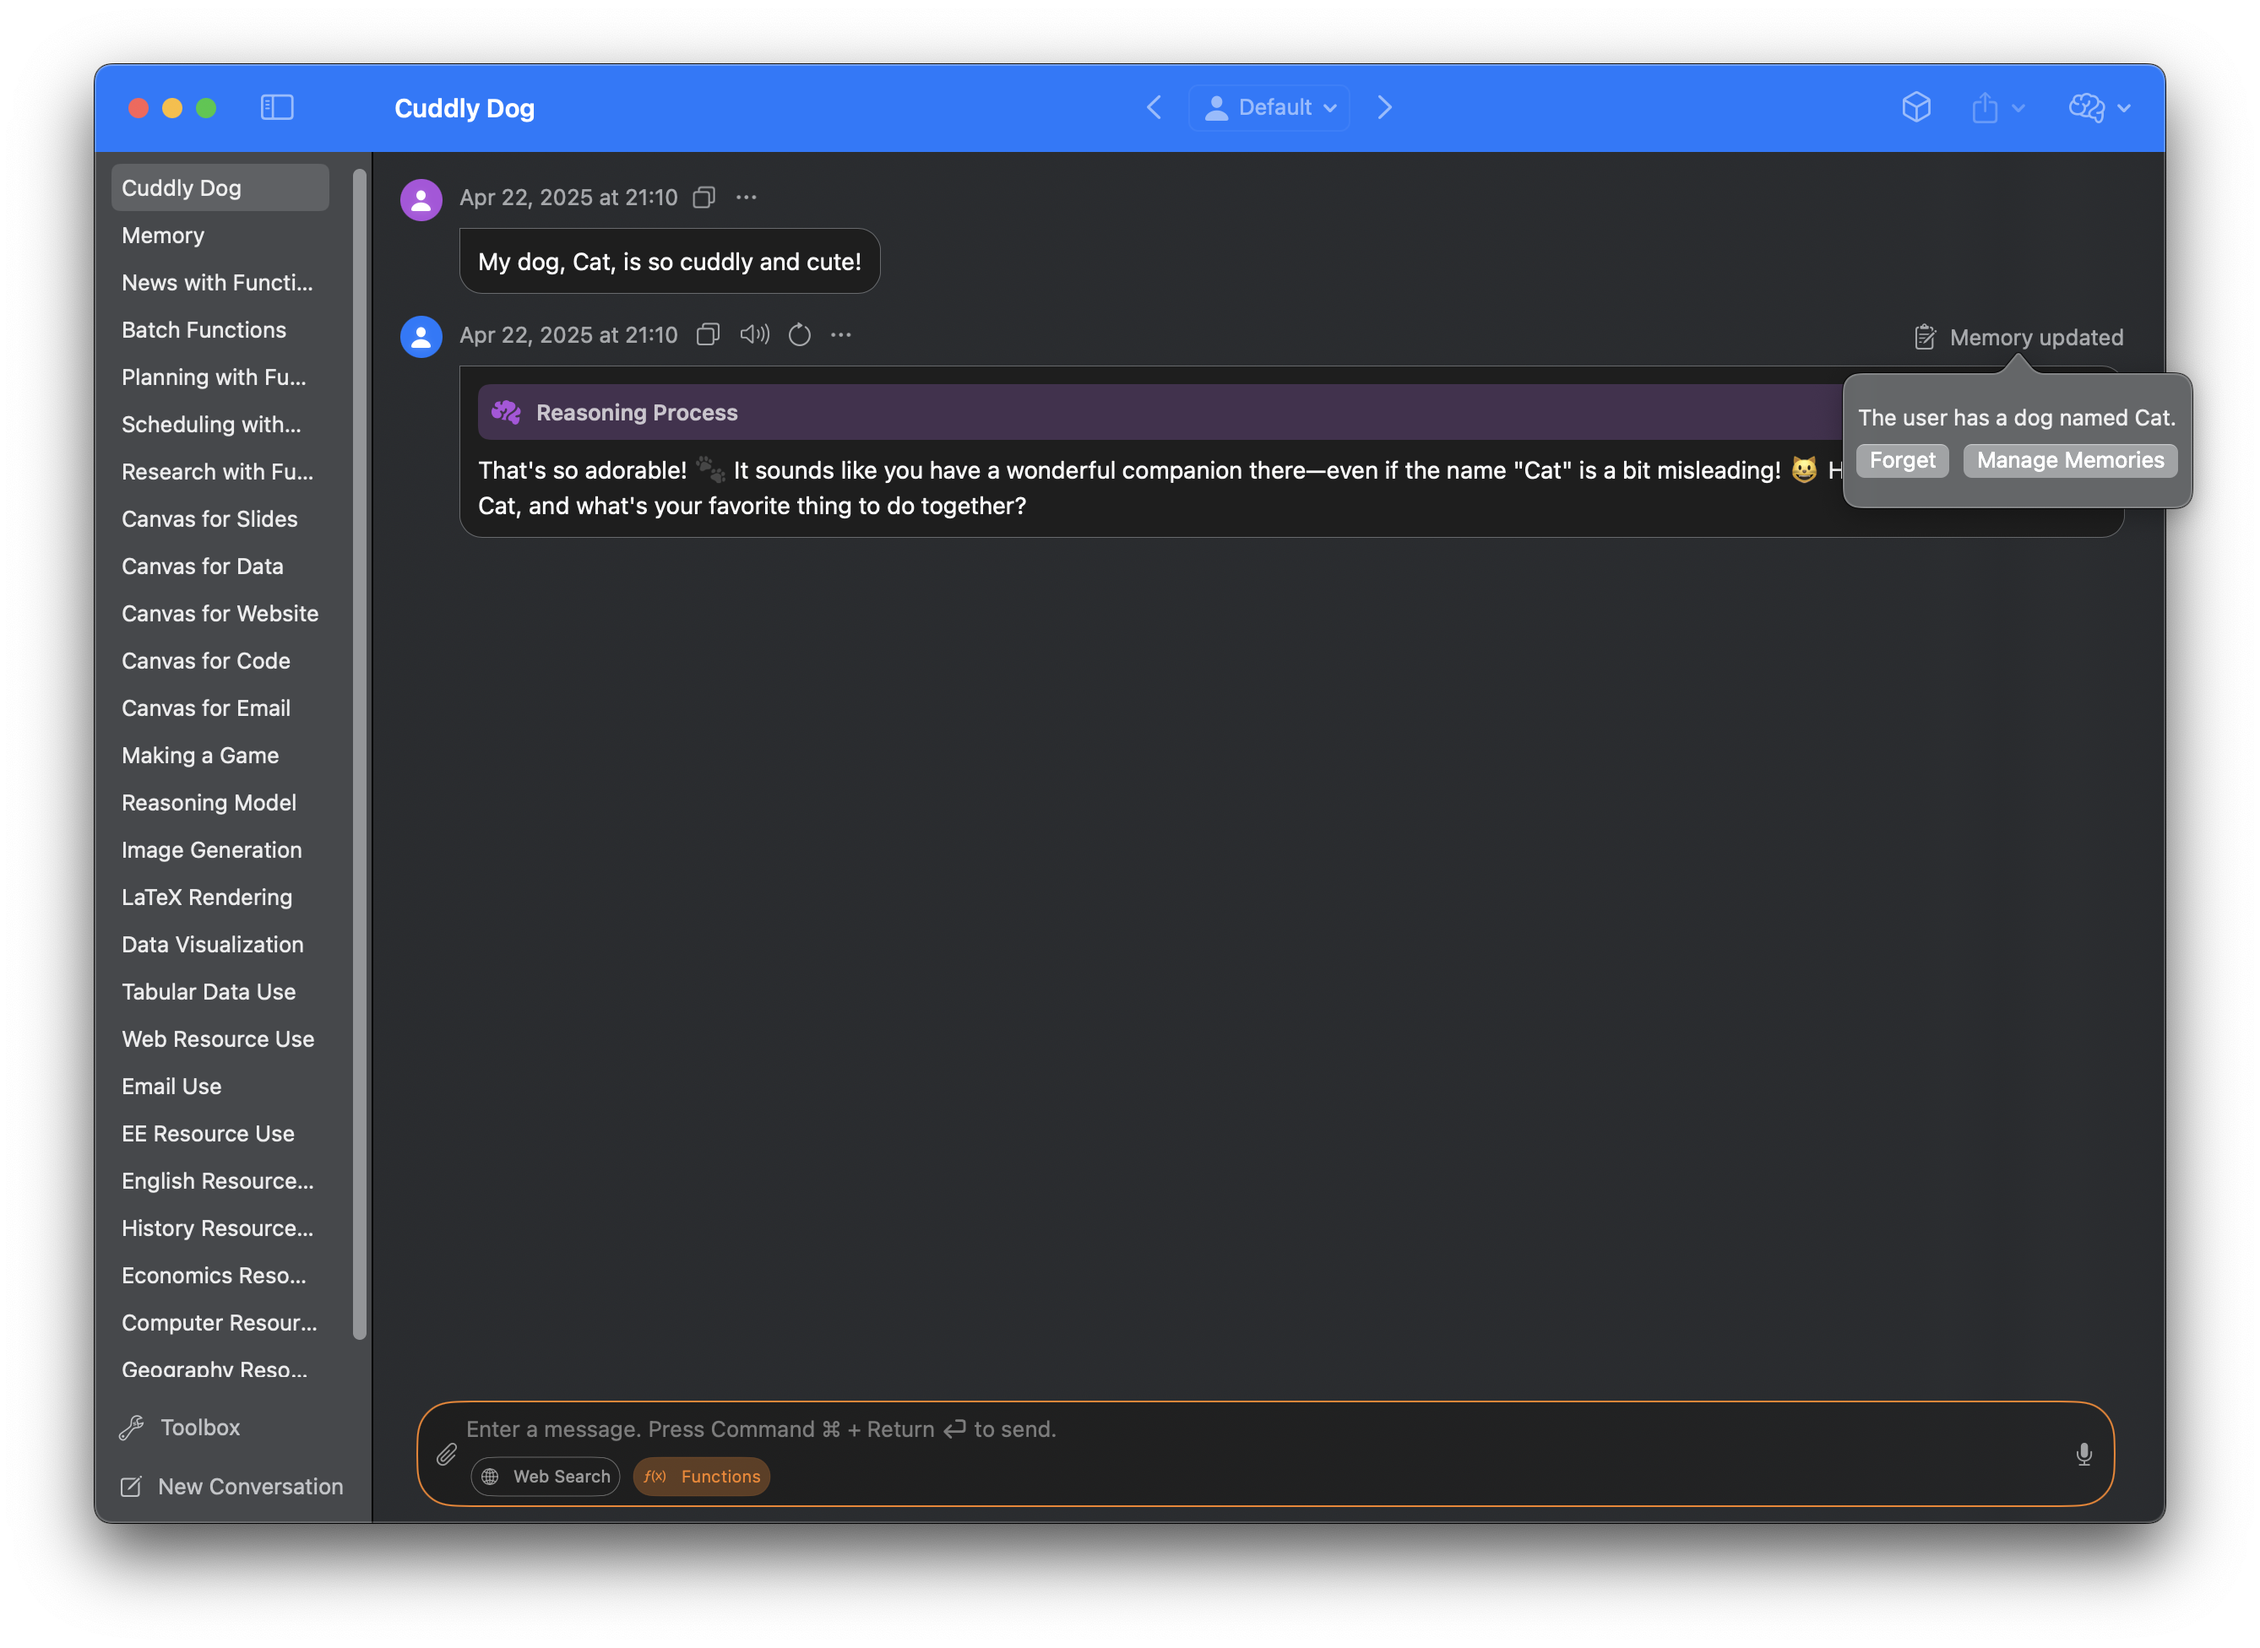
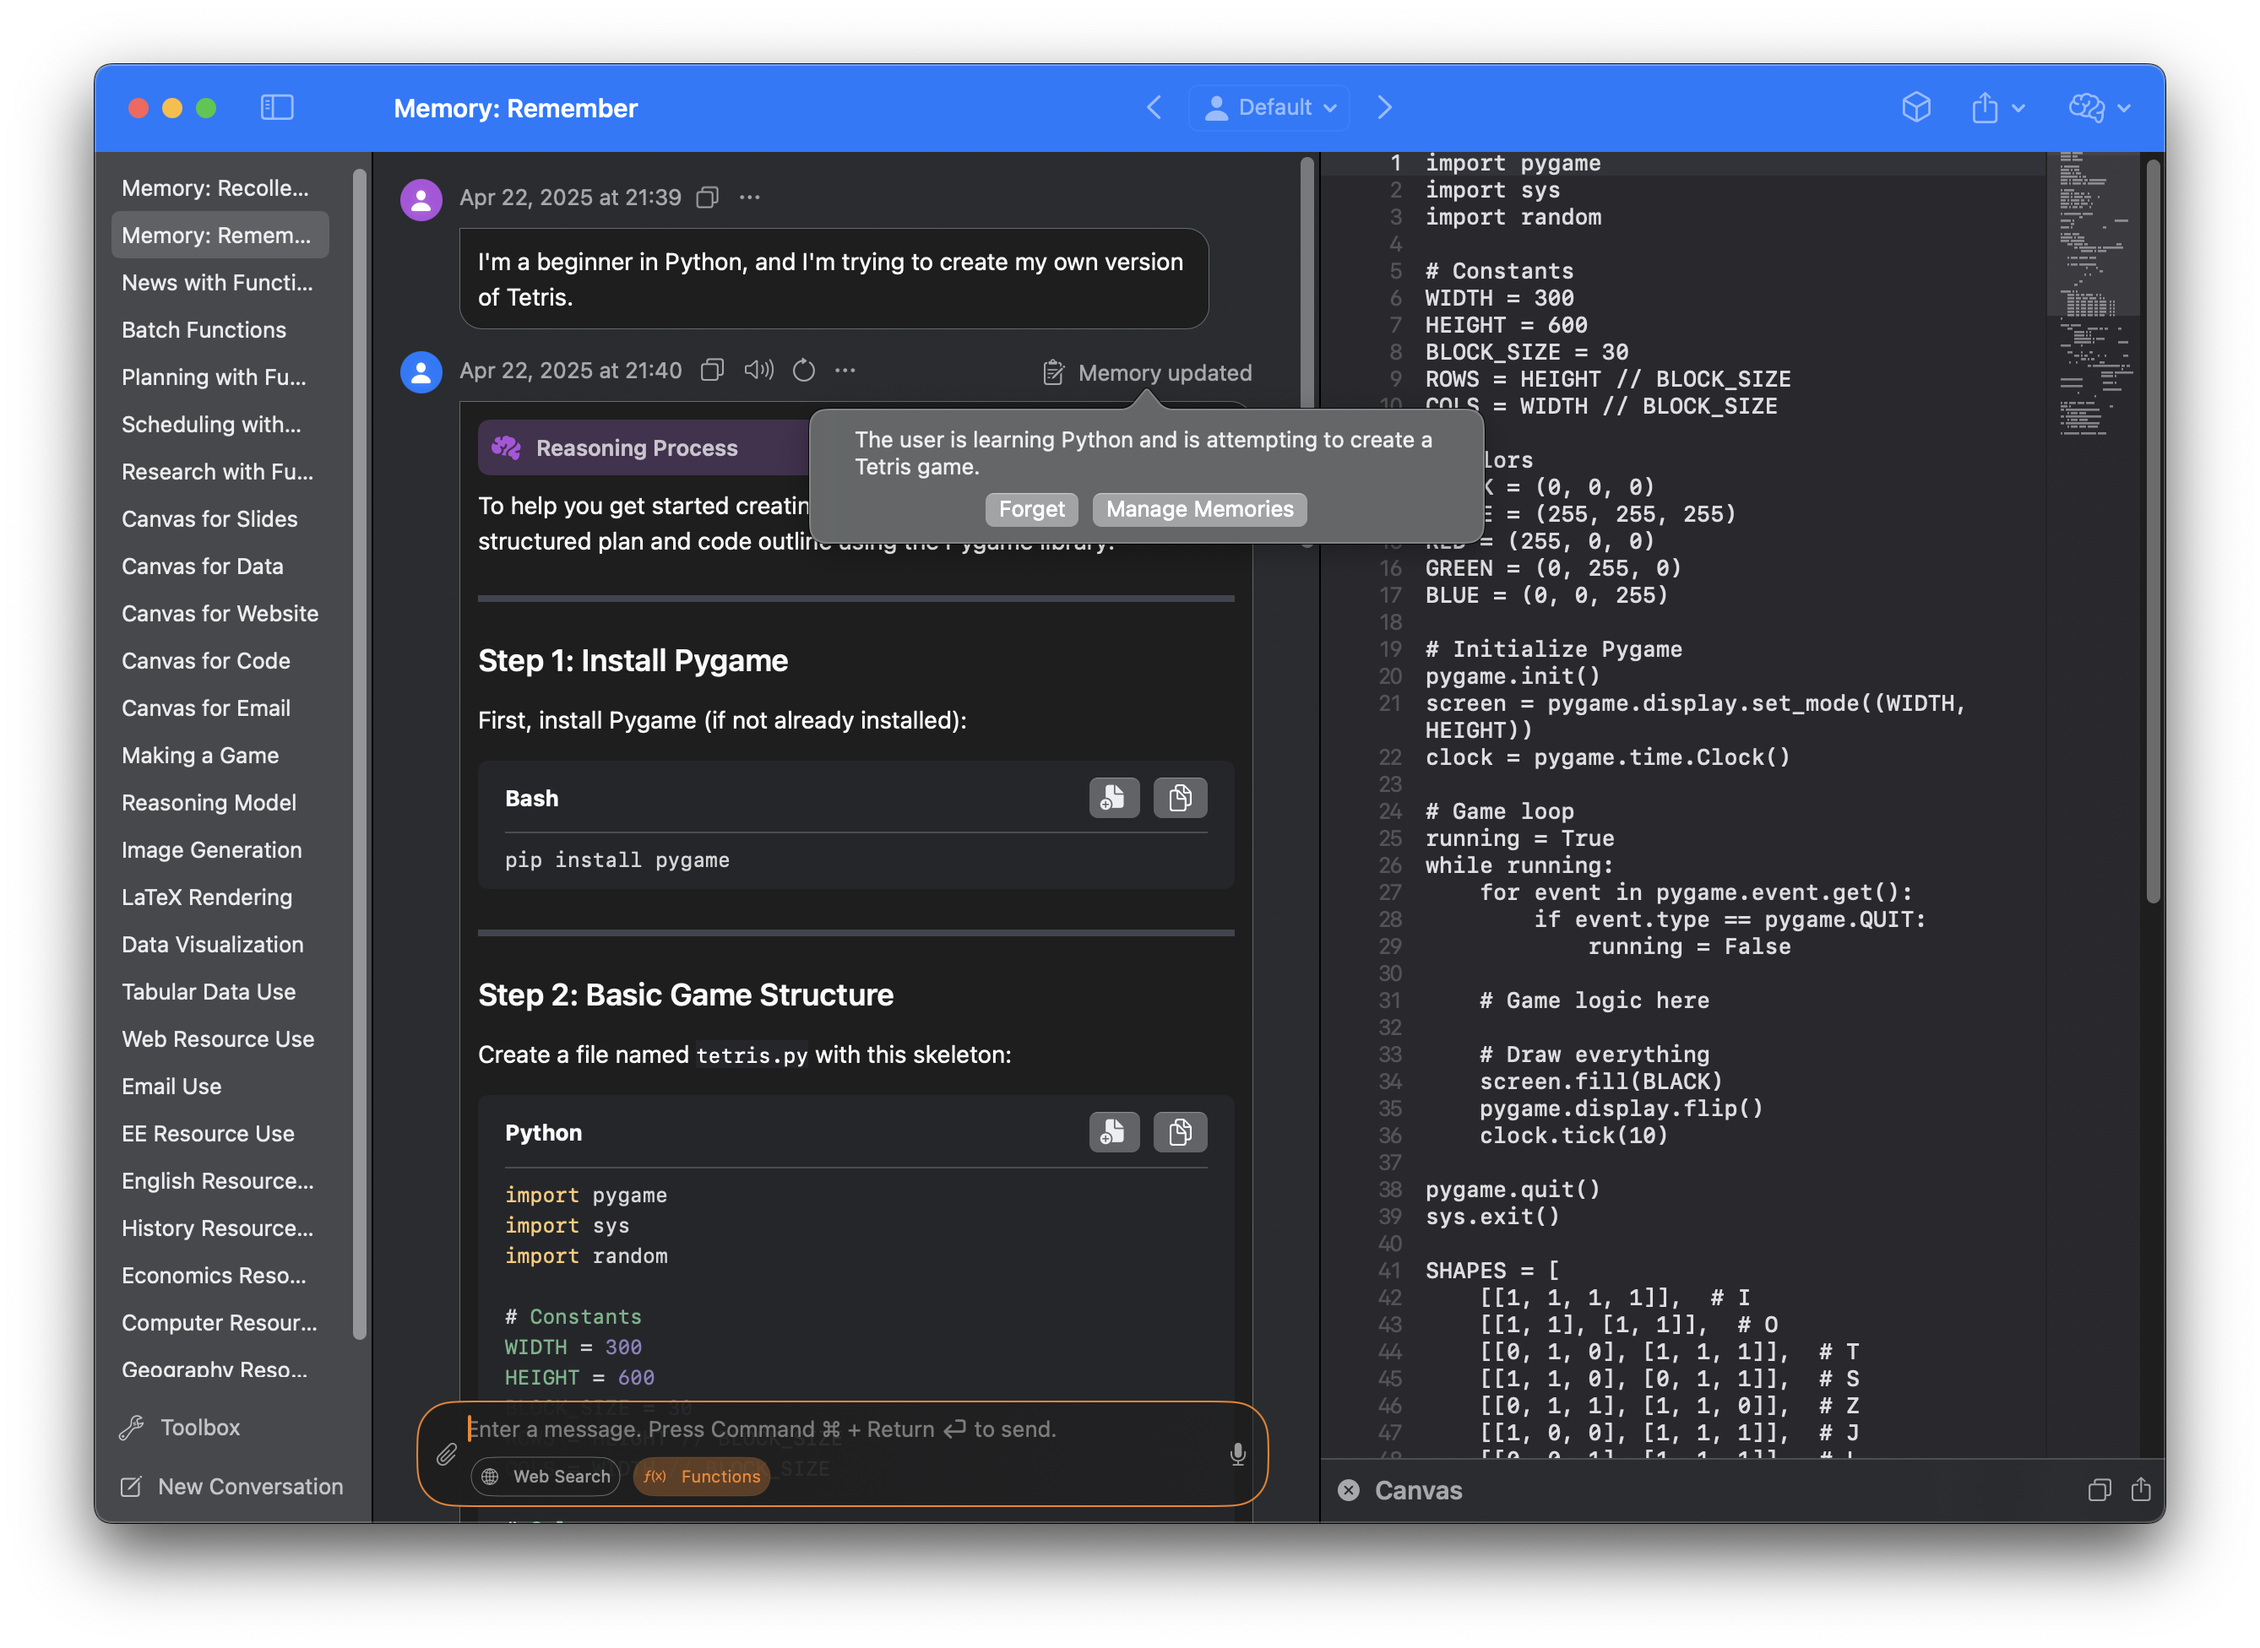
docs: Updated memory example

diff --git a/site/Markdown/Features/conversations/index.html b/site/Markdown/Features/conversations/index.html
@@ -66,6 +66,8 @@
     </li>
     <li class="toctree-l2"><a class="reference internal" href="#function-calling">Function Calling</a>
     </li>
+    <li class="toctree-l2"><a class="reference internal" href="#memory">Memory</a>
+    </li>
     <li class="toctree-l2"><a class="reference internal" href="#advanced-markdown-rendering">Advanced Markdown Rendering</a>
         <ul>
     <li class="toctree-l3"><a class="reference internal" href="#latex">LaTeX</a>
@@ -154,6 +156,12 @@
 <p>To view details for each function call, click the down arrow on the right.</p>
 <p><img alt="Conversations" src="../../../img/Docs%20Images/Features/Conversations/functionsToggle.png" /></p>
 <p>Code Interpreter is enabled by default if a remote model is used, but can be disabled in <code>Settings</code> -&gt; <code>Chat</code> -&gt; <code>Use Functions</code>.</p>
+<h2 id="memory">Memory</h2>
+<p>Sidekick can now remember helpful information between conversations, making its responses more relevant and personalized. Whether you're typing, speaking, or generating images in Sidekick, it can recall details and preferences you’ve shared and use them to tailor its responses. The more you use it, the more useful it becomes, and you’ll start to notice improvements over time.</p>
+<p>For example, I can tell Sidekick about my new dog, Cat...</p>
+<p><img alt="Conversations" src="../../../img/Docs%20Images/Features/Conversations/memoryRemember.png" /></p>
+<p>so that when I ask Sidekick what to feed Cat, it recommends dog food.</p>
+<p><img alt="Conversations" src="../../../img/Docs%20Images/Features/Conversations/memoryUse.png" /></p>
 <h2 id="advanced-markdown-rendering">Advanced Markdown Rendering</h2>
 <p>Markdown is rendered beautifully in Sidekick.</p>
 <h3 id="latex">LaTeX</h3>

diff --git a/site/index.html b/site/index.html
@@ -172,5 +172,5 @@
 
 <!--
 MkDocs version : 1.6.1
-Build Date UTC : 2025-04-22 01:39:58.782274+00:00
+Build Date UTC : 2025-04-22 13:18:08.177356+00:00
 -->

diff --git a/docs/Markdown/Features/conversations.md b/docs/Markdown/Features/conversations.md
@@ -50,11 +50,11 @@ Code Interpreter is enabled by default if a remote model is used, but can be dis
 
 Sidekick can now remember helpful information between conversations, making its responses more relevant and personalized. Whether you're typing, speaking, or generating images in Sidekick, it can recall details and preferences you’ve shared and use them to tailor its responses. The more you use it, the more useful it becomes, and you’ll start to notice improvements over time.
 
-For example, I can tell Sidekick about my new dog, Cat...
+For example, I might tell Sidekick that I am a beginner in Python trying to create my own version of Tetris.
 
 ![Conversations](../../img/Docs Images/Features/Conversations/memoryRemember.png)
 
-so that when I ask Sidekick what to feed Cat, it recommends dog food.
+When I ask it about `pygame` alternatives, it makes recommendations based on my current project, Tetris.
 
 ![Conversations](../../img/Docs Images/Features/Conversations/memoryUse.png)
 
